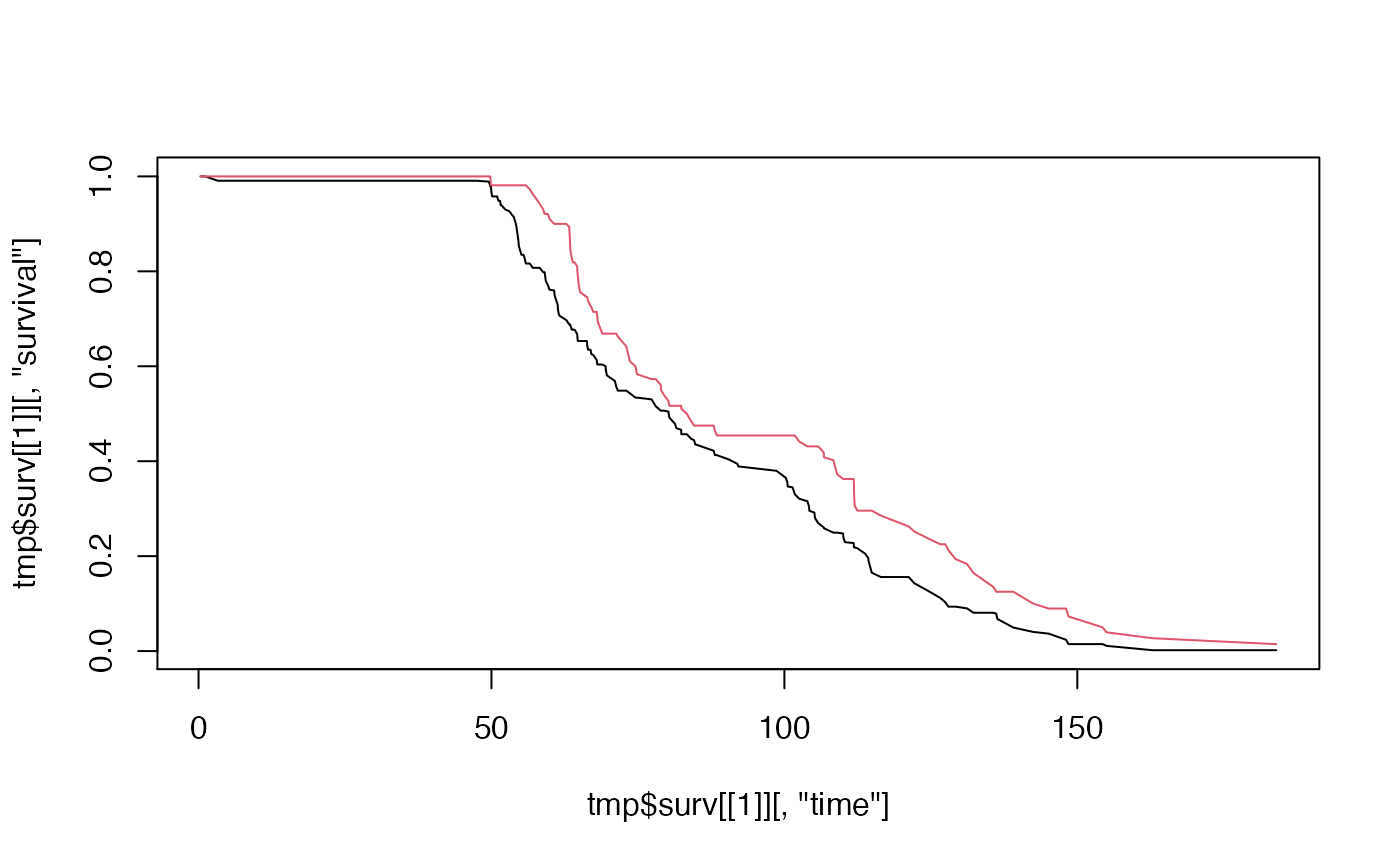
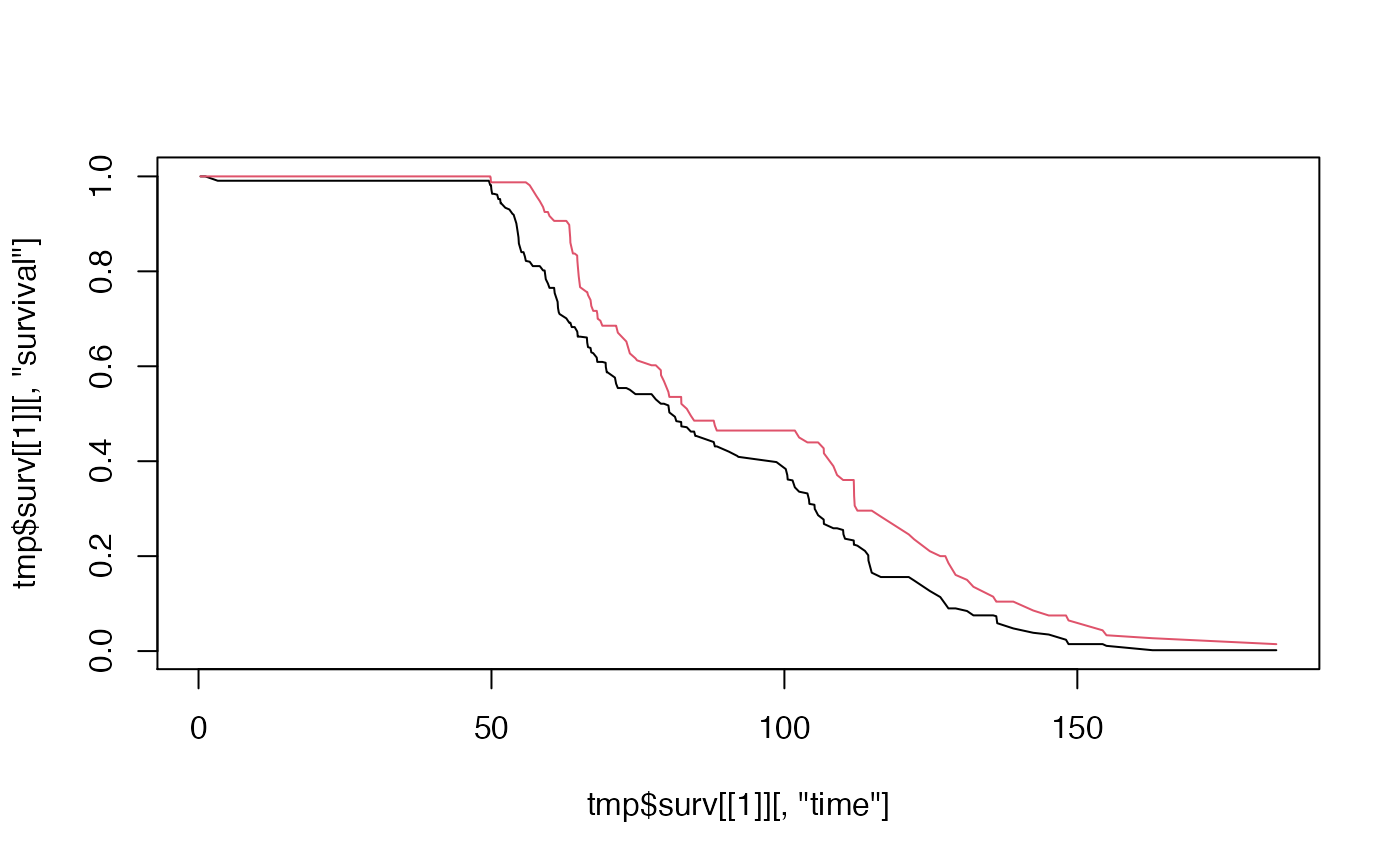
Built site for smim: 0.0.0.9000@569d8f1

diff --git a/articles/actg175.html b/articles/actg175.html
@@ -224,27 +224,20 @@
   lower_wb <span class="op">=</span> <span class="va">diff_rmst</span> <span class="op">-</span> <span class="fl">1.96</span> <span class="op">*</span> <span class="va">diff_wb_sd</span>, 
   upper_wb <span class="op">=</span> <span class="va">diff_rmst</span> <span class="op">+</span> <span class="fl">1.96</span> <span class="op">*</span> <span class="va">diff_wb_sd</span>,
   p_val_wb <span class="op">=</span> <span class="fl">2</span><span class="op">*</span> <span class="op">(</span><span class="fl">1</span> <span class="op">-</span> <span class="fu"><a href="https://rdrr.io/r/stats/Normal.html" class="external-link">pnorm</a></span><span class="op">(</span> <span class="fu"><a href="https://rdrr.io/r/base/MathFun.html" class="external-link">abs</a></span><span class="op">(</span><span class="va">diff_rmst</span><span class="op">/</span><span class="va">diff_wb_sd</span><span class="op">)</span> <span class="op">)</span><span class="op">)</span>,
-<span class="op">)</span> <span class="op"><a href="https://magrittr.tidyverse.org/reference/pipe.html" class="external-link">%&gt;%</a></span> <span class="fu"><a href="https://dplyr.tidyverse.org/reference/mutate_all.html" class="external-link">mutate_if</a></span><span class="op">(</span><span class="va">is.numeric</span>, <span class="va">formatC</span>, digits <span class="op">=</span> <span class="fl">3</span>, format <span class="op">=</span> <span class="st">"f"</span><span class="op">)</span> <span class="op"><a href="https://magrittr.tidyverse.org/reference/pipe.html" class="external-link">%&gt;%</a></span> <span class="fu"><a href="https://rdrr.io/r/base/data.frame.html" class="external-link">data.frame</a></span><span class="op">(</span><span class="op">)</span>
-<span class="co">#&gt;   delta diff_rmst diff_sd diff_wb_sd  lower upper p_val lower_wb upper_wb</span>
-<span class="co">#&gt; 1     1     0.928   0.459      0.461  0.028 1.829 0.043    0.024    1.832</span>
-<span class="co">#&gt; 2   1.5     0.903   0.477      0.453 -0.031 1.837 0.058    0.015    1.791</span>
-<span class="co">#&gt; 3     2     0.909   0.483      0.411 -0.037 1.855 0.060    0.104    1.714</span>
-<span class="co">#&gt; 4   2.5     0.875   0.477      0.478 -0.061 1.810 0.067   -0.062    1.811</span>
-<span class="co">#&gt; 5     3     0.852   0.492      0.453 -0.114 1.817 0.084   -0.037    1.740</span>
-<span class="co">#&gt; 6   3.5     0.849   0.492      0.440 -0.115 1.813 0.084   -0.014    1.712</span>
-<span class="co">#&gt; 7     4     0.822   0.503      0.439 -0.165 1.808 0.103   -0.039    1.682</span>
-<span class="co">#&gt; 8   4.5     0.812   0.495      0.419 -0.159 1.782 0.101   -0.010    1.634</span>
-<span class="co">#&gt; 9     5     0.804   0.492      0.423 -0.160 1.768 0.102   -0.025    1.633</span>
-<span class="co">#&gt;   p_val_wb</span>
-<span class="co">#&gt; 1    0.044</span>
-<span class="co">#&gt; 2    0.046</span>
-<span class="co">#&gt; 3    0.027</span>
-<span class="co">#&gt; 4    0.067</span>
-<span class="co">#&gt; 5    0.060</span>
-<span class="co">#&gt; 6    0.054</span>
-<span class="co">#&gt; 7    0.061</span>
-<span class="co">#&gt; 8    0.053</span>
-<span class="co">#&gt; 9    0.057</span></code></pre></div>
+<span class="op">)</span> <span class="op"><a href="https://magrittr.tidyverse.org/reference/pipe.html" class="external-link">%&gt;%</a></span> <span class="fu"><a href="https://dplyr.tidyverse.org/reference/mutate_all.html" class="external-link">mutate_if</a></span><span class="op">(</span><span class="va">is.numeric</span>, <span class="va">formatC</span>, digits <span class="op">=</span> <span class="fl">3</span>, format <span class="op">=</span> <span class="st">"f"</span><span class="op">)</span>
+<span class="co">#&gt; # A tibble: 9 x 10</span>
+<span class="co">#&gt;   delta diff_rmst diff_sd diff_wb_sd lower  upper p_val lower_wb upper_wb</span>
+<span class="co">#&gt;   &lt;chr&gt; &lt;chr&gt;     &lt;chr&gt;   &lt;chr&gt;      &lt;chr&gt;  &lt;chr&gt; &lt;chr&gt; &lt;chr&gt;    &lt;chr&gt;   </span>
+<span class="co">#&gt; 1 1     0.928     0.459   0.461      0.028  1.829 0.043 0.024    1.832   </span>
+<span class="co">#&gt; 2 1.5   0.903     0.477   0.453      -0.031 1.837 0.058 0.015    1.791   </span>
+<span class="co">#&gt; 3 2     0.909     0.483   0.411      -0.037 1.855 0.060 0.104    1.714   </span>
+<span class="co">#&gt; 4 2.5   0.875     0.477   0.478      -0.061 1.810 0.067 -0.062   1.811   </span>
+<span class="co">#&gt; 5 3     0.852     0.492   0.453      -0.114 1.817 0.084 -0.037   1.740   </span>
+<span class="co">#&gt; 6 3.5   0.849     0.492   0.440      -0.115 1.813 0.084 -0.014   1.712   </span>
+<span class="co">#&gt; 7 4     0.822     0.503   0.439      -0.165 1.808 0.103 -0.039   1.682   </span>
+<span class="co">#&gt; 8 4.5   0.812     0.495   0.419      -0.159 1.782 0.101 -0.010   1.634   </span>
+<span class="co">#&gt; 9 5     0.804     0.492   0.423      -0.160 1.768 0.102 -0.025   1.633   </span>
+<span class="co">#&gt; # … with 1 more variable: p_val_wb &lt;chr&gt;</span></code></pre></div>
 </div>
 </div>
 <div id="control-based-imputation" class="section level1">

diff --git a/articles/melanoma.html b/articles/melanoma.html
@@ -185,9 +185,9 @@
 
 <span class="fu"><a href="https://rdrr.io/r/base/cbind.html" class="external-link">rbind</a></span><span class="op">(</span> <span class="fu"><a href="../reference/diff_rmst.html">diff_rmst</a></span><span class="op">(</span><span class="va">tmp</span><span class="op">$</span><span class="va">rmst</span><span class="op">[</span>,<span class="st">"rmst"</span><span class="op">]</span>, <span class="va">tmp</span><span class="op">$</span><span class="va">rmst</span><span class="op">[</span>, <span class="st">"sd"</span><span class="op">]</span><span class="op">)</span>, 
        <span class="fu"><a href="../reference/diff_rmst.html">diff_rmst</a></span><span class="op">(</span><span class="va">tmp</span><span class="op">$</span><span class="va">rmst</span><span class="op">[</span>,<span class="st">"rmst"</span><span class="op">]</span>, <span class="va">tmp</span><span class="op">$</span><span class="va">rmst</span><span class="op">[</span>, <span class="st">"wb_sd"</span><span class="op">]</span><span class="op">)</span><span class="op">)</span>
-<span class="co">#&gt;          diff       sd         p</span>
-<span class="co">#&gt; [1,] 7.018859 5.298410 0.1852672</span>
-<span class="co">#&gt; [2,] 7.018859 3.832876 0.0670669</span></code></pre></div>
+<span class="co">#&gt;          diff       sd          p</span>
+<span class="co">#&gt; [1,] 6.901403 5.009857 0.16833763</span>
+<span class="co">#&gt; [2,] 6.901403 3.774953 0.06751819</span></code></pre></div>
 </div>
 <div id="survival-curve-after-imputation" class="section level2">
 <h2 class="hasAnchor">
@@ -210,8 +210,8 @@
 <span class="va">tmp</span> <span class="op">&lt;-</span> <span class="fu"><a href="../reference/rmst_delta.html">rmst_delta</a></span><span class="op">(</span><span class="va">time</span>, <span class="va">status</span>, x <span class="op">=</span> <span class="va">x</span>, <span class="va">group</span>, <span class="va">pattern</span>, <span class="va">delta</span>, <span class="va">tau</span>, n_mi <span class="op">=</span> <span class="fl">5</span>, n_b <span class="op">=</span> <span class="fl">100</span>, seed <span class="op">=</span> <span class="fl">1234</span><span class="op">)</span>
 <span class="va">tmp</span><span class="op">$</span><span class="va">rmst</span>
 <span class="co">#&gt;      group     rmst       sd    wb_sd</span>
-<span class="co">#&gt; [1,]     0 83.31937 2.565337 2.738790</span>
-<span class="co">#&gt; [2,]     1 89.56990 3.297109 2.625614</span></code></pre></div>
+<span class="co">#&gt; [1,]     0 83.38361 2.824512 2.881792</span>
+<span class="co">#&gt; [2,]     1 90.36067 4.328183 2.598079</span></code></pre></div>
 </div>
 <div id="rmst-between-group-1" class="section level2">
 <h2 class="hasAnchor">
@@ -227,8 +227,8 @@
 <span class="fu"><a href="https://rdrr.io/r/base/cbind.html" class="external-link">rbind</a></span><span class="op">(</span> <span class="fu"><a href="../reference/diff_rmst.html">diff_rmst</a></span><span class="op">(</span><span class="va">tmp</span><span class="op">$</span><span class="va">rmst</span><span class="op">[</span>,<span class="st">"rmst"</span><span class="op">]</span>, <span class="va">tmp</span><span class="op">$</span><span class="va">rmst</span><span class="op">[</span>, <span class="st">"sd"</span><span class="op">]</span><span class="op">)</span>, 
        <span class="fu"><a href="../reference/diff_rmst.html">diff_rmst</a></span><span class="op">(</span><span class="va">tmp</span><span class="op">$</span><span class="va">rmst</span><span class="op">[</span>,<span class="st">"rmst"</span><span class="op">]</span>, <span class="va">tmp</span><span class="op">$</span><span class="va">rmst</span><span class="op">[</span>, <span class="st">"wb_sd"</span><span class="op">]</span><span class="op">)</span><span class="op">)</span>
 <span class="co">#&gt;          diff       sd          p</span>
-<span class="co">#&gt; [1,] 6.250531 4.177545 0.13459603</span>
-<span class="co">#&gt; [2,] 6.250531 3.794051 0.09946437</span></code></pre></div>
+<span class="co">#&gt; [1,] 6.977067 5.168272 0.17702217</span>
+<span class="co">#&gt; [2,] 6.977067 3.880044 0.07214644</span></code></pre></div>
 </div>
 <div id="survival-curve-after-imputation-1" class="section level2">
 <h2 class="hasAnchor">
